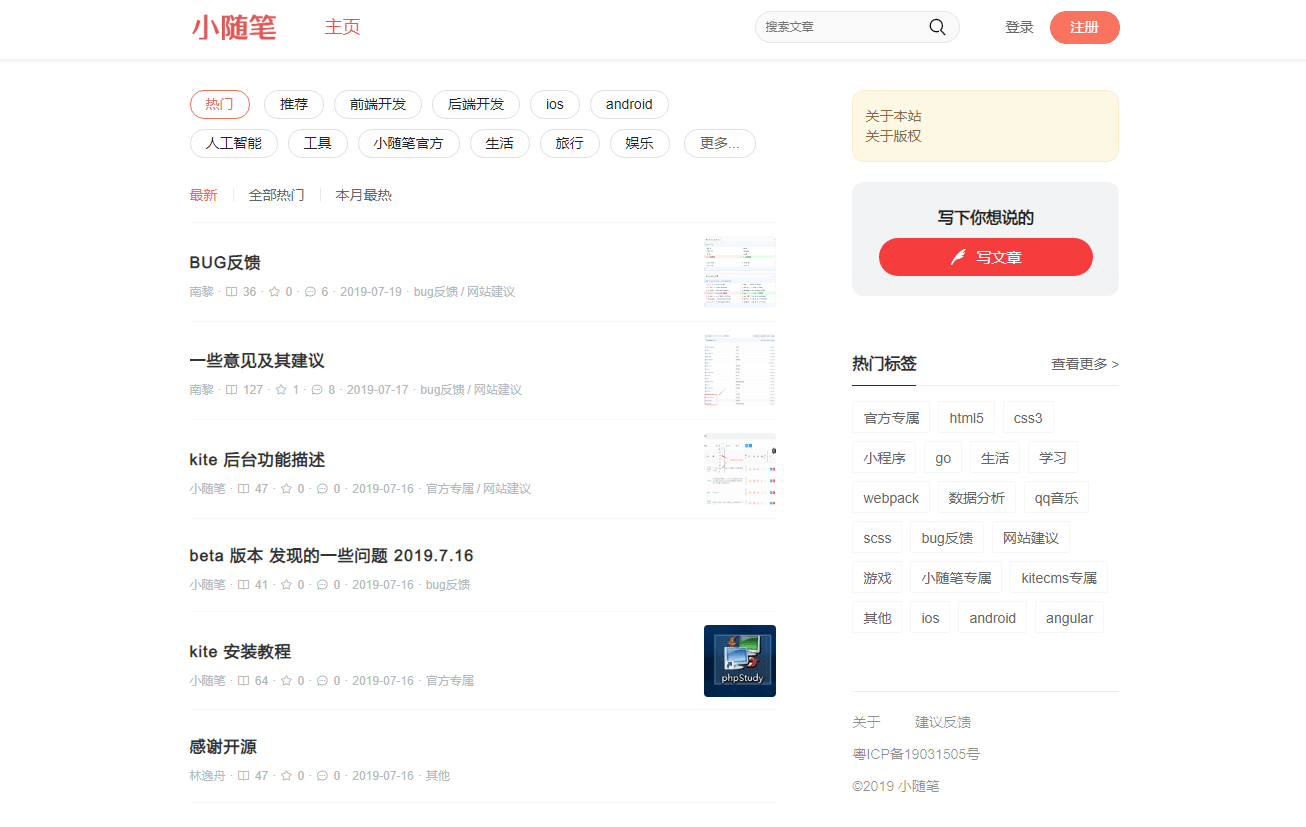
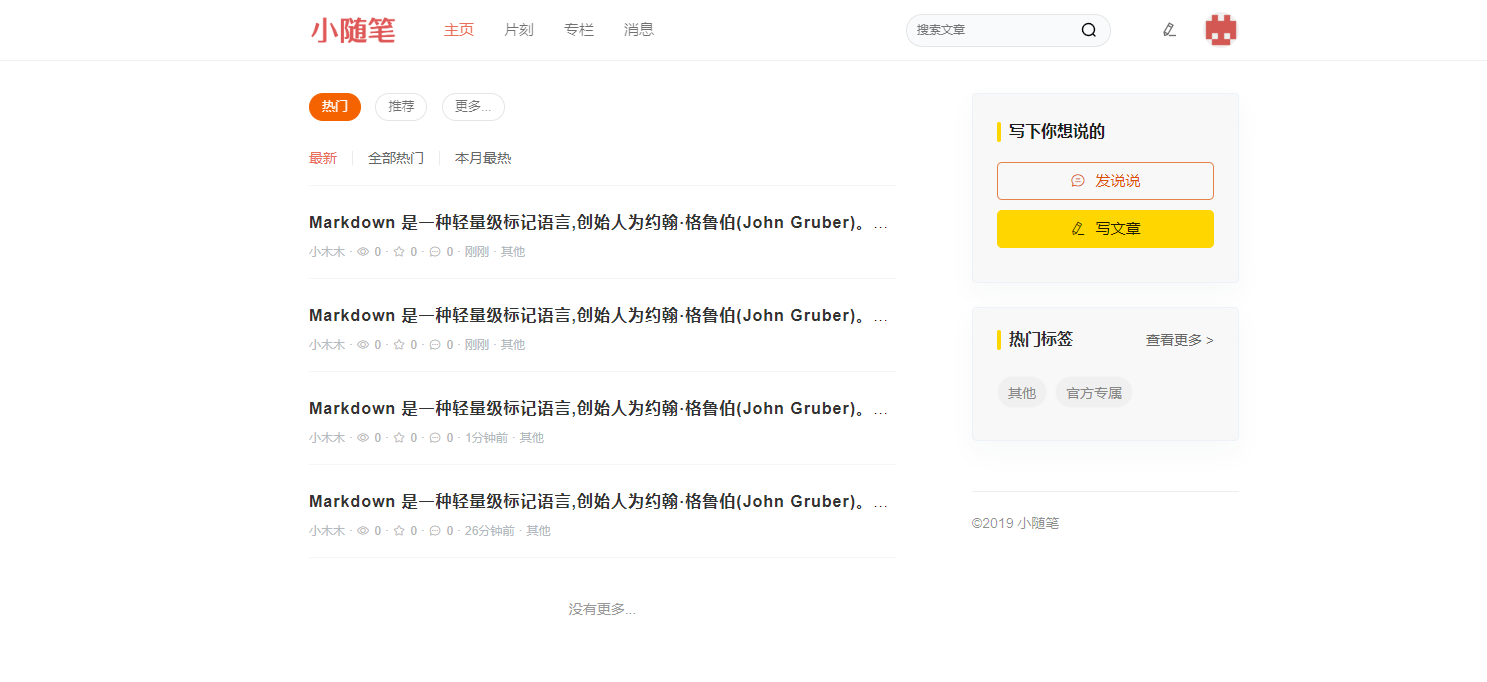
版升级

diff --git a/README.md b/README.md
@@ -26,17 +26,17 @@
 ## 💼 最新版本更新记录
 
 ```
-更新时间：2019.8.29 0:45:00
-外部版本号：v0.10.6 内部版本号：0.3
+更新时间：2019.9.23 17:20:00
+外部版本号：v0.10.7 内部版本号：0.4
 运行：npm run kite-update
 (此次更新需要 cnpm i or npm i or yarn)
 
-1.新增动态页面，暂时命名为片刻（实在是起不来名字）
-2.代码升级程序优化
+1.新增专栏页面、个人公开的专栏可以出现在专栏页面
+2.前台后台页面UI优化
 3.sql表字段优化
 4.界面UI优化
-5.修改其他 bug
-
+5.修改现存的bug
+6.seo 优化
 ```
 
 [版本更新历史记录](https://github.com/maoxiaoquan/kite/blob/master/docs/VERSION.md 'version')
